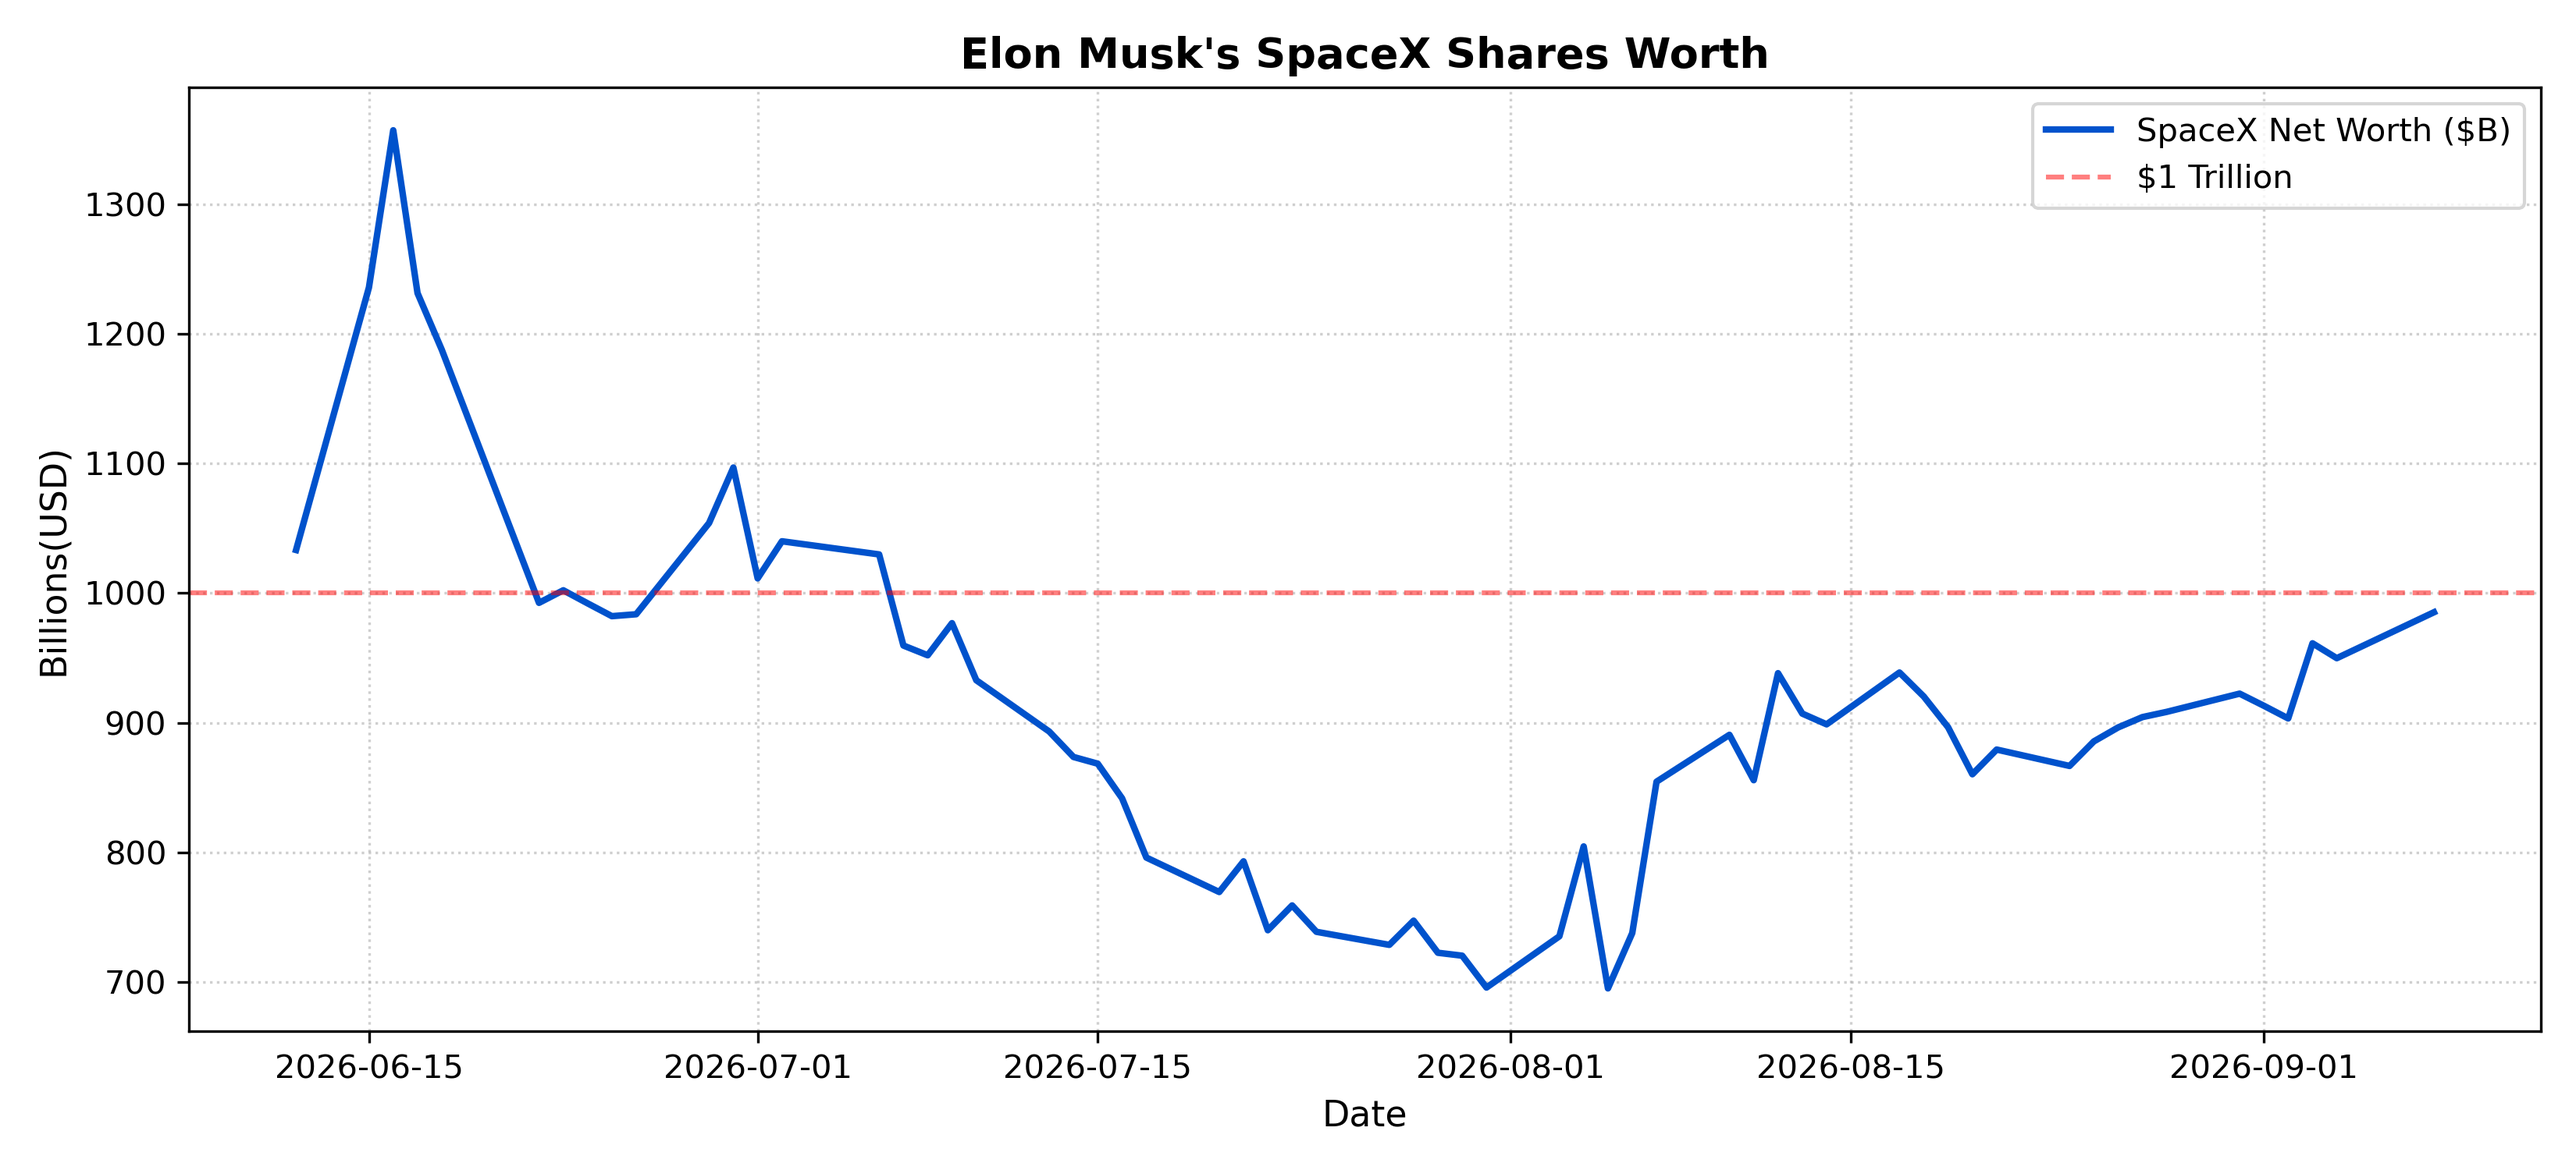
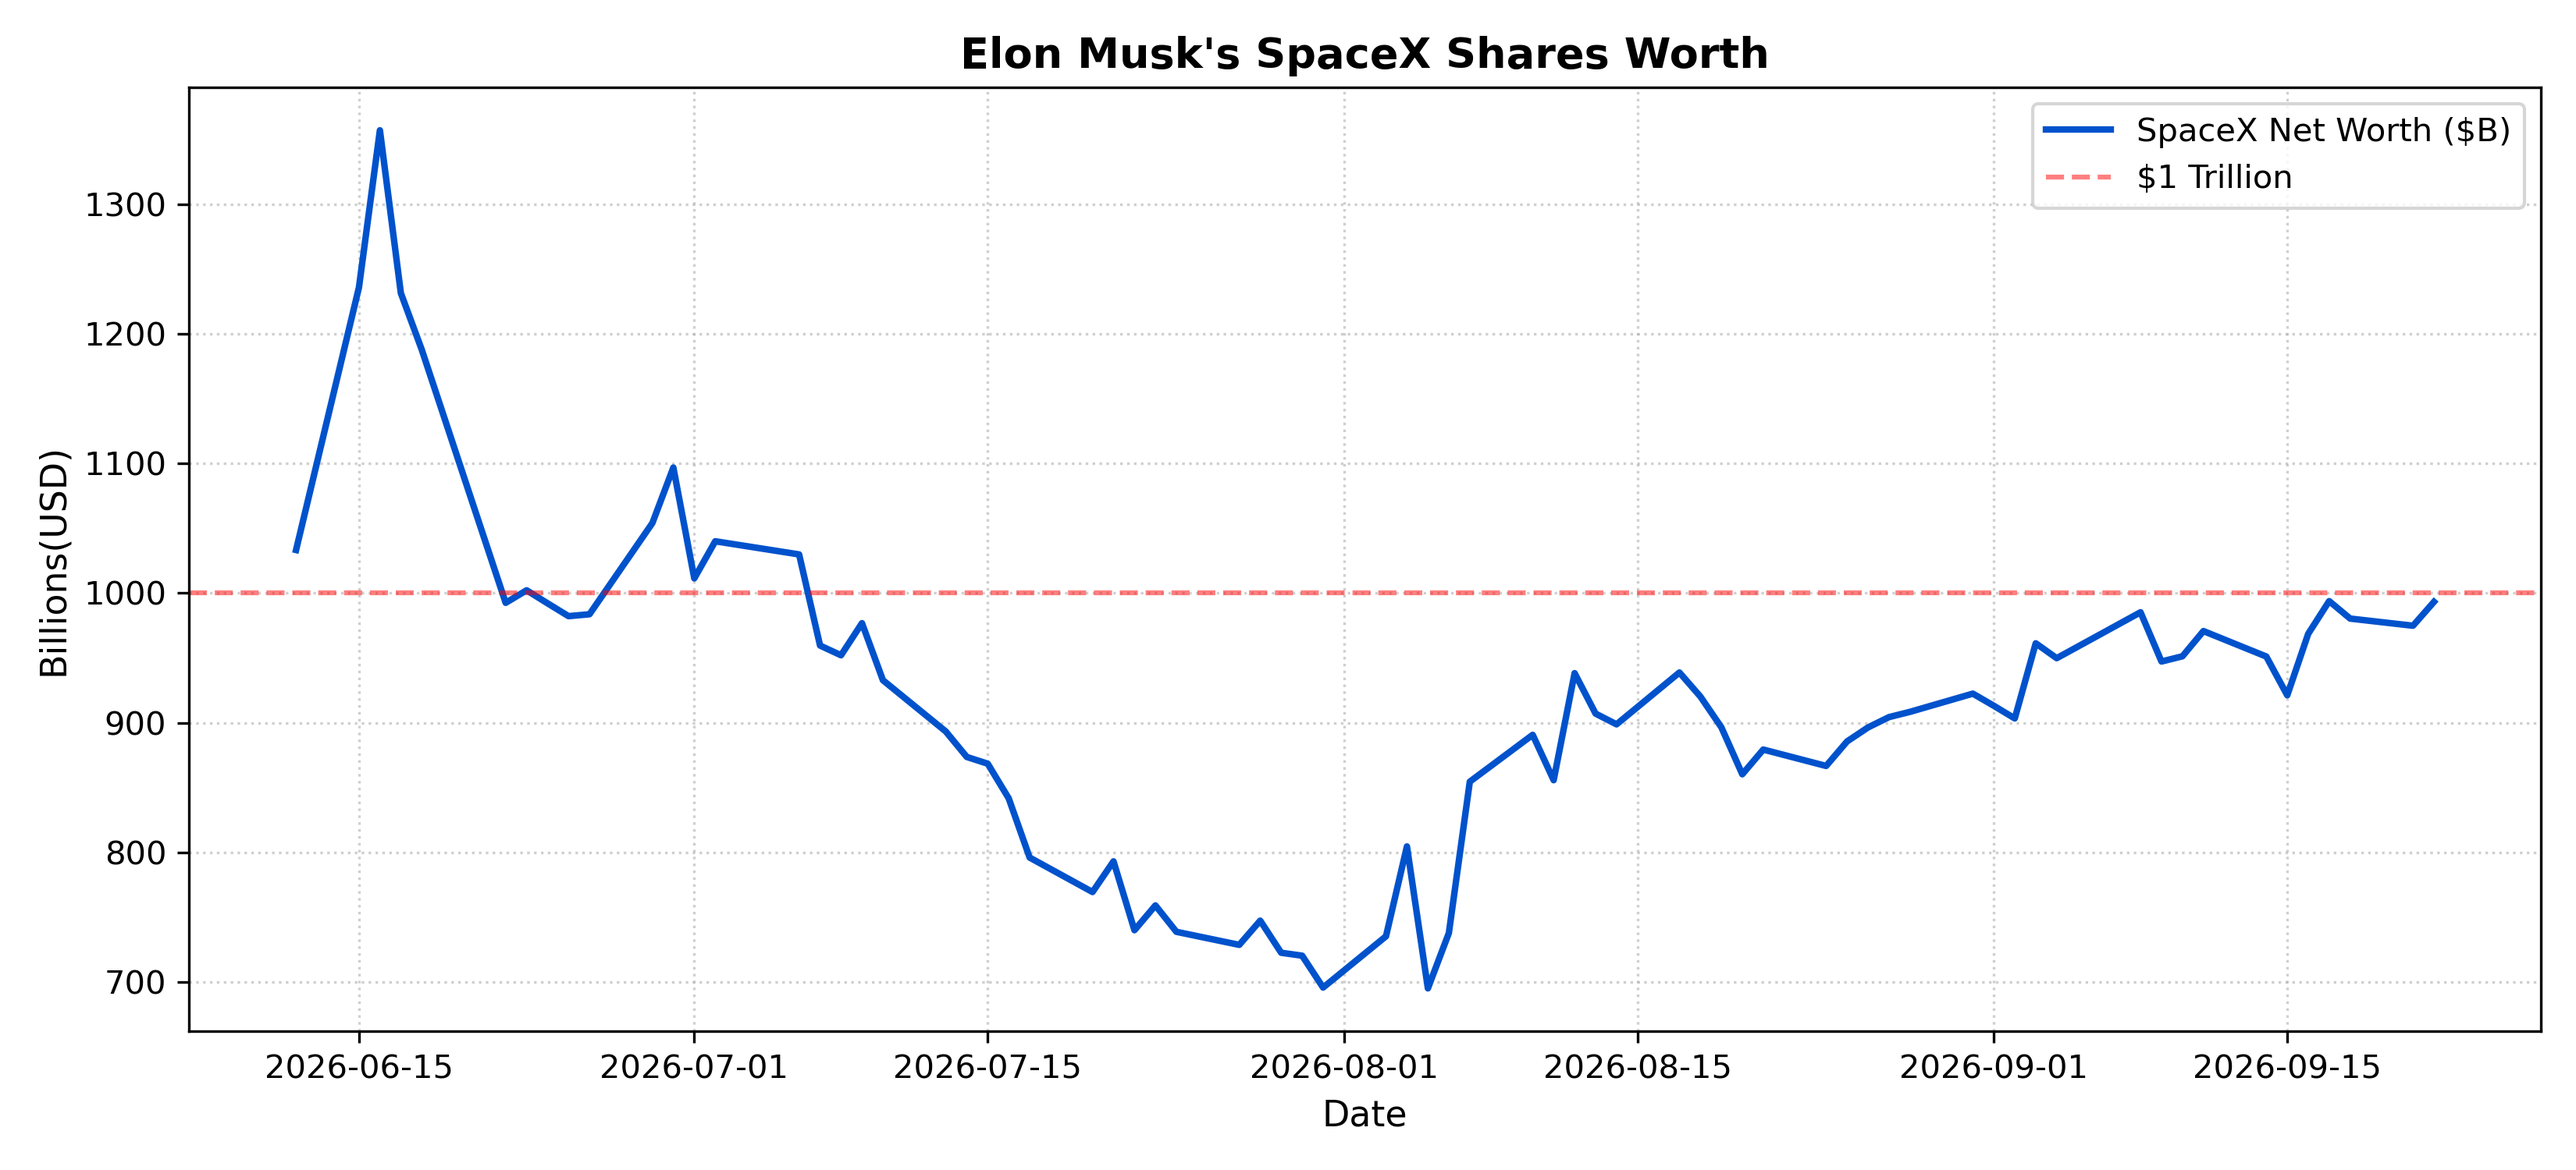
Initial commit

diff --git a/elongate.py b/elongate.py
@@ -5,7 +5,7 @@ import pandas as pd
 # 1. Define the tickers and the timeframe
 tickers = ["TSLA", "SPCX"]
 start_date = "2026-07-01"
-end_date = "2026-09-09"  # Requested inclusive end date
+end_date = "2026-09-22"  # Requested inclusive end date
 
 # yfinance treats the `end` parameter as exclusive. To include `end_date`
 # in the downloaded range, add one day to the end date.

diff --git a/spcx_tsla.py b/spcx_tsla.py
@@ -9,7 +9,7 @@ import yfinance as yf
 
 # Fetch data starting from June 22, 2026
 start_date = "2026-06-12"
-end_date = "2026-09-09"  # Requested inclusive end date 
+end_date = "2026-09-22"  # Requested inclusive end date 
 
 # yfinance treats the `end` parameter as exclusive. To include `end_date`,
 # add one day and use that as the `end` argument.

diff --git a/muskmoney.py b/muskmoney.py
@@ -4,7 +4,7 @@ import matplotlib.pyplot as plt
 # 1. Configuration parameters
 ticker_symbol = "SPCX"
 musk_shares = 6.42e9  # 6.42 Billion Shares
-ipo_date = "2026-06-12"
+ipo_date = "2026-06-12" 
 
 # 2. Download daily market data
 spcx_data = yf.download(ticker_symbol, start=ipo_date, interval="1d")
